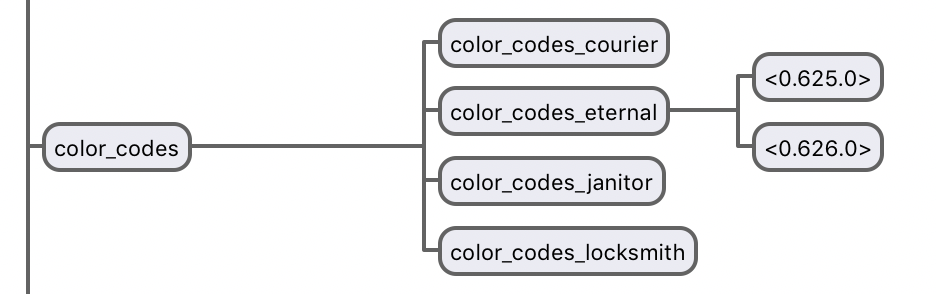
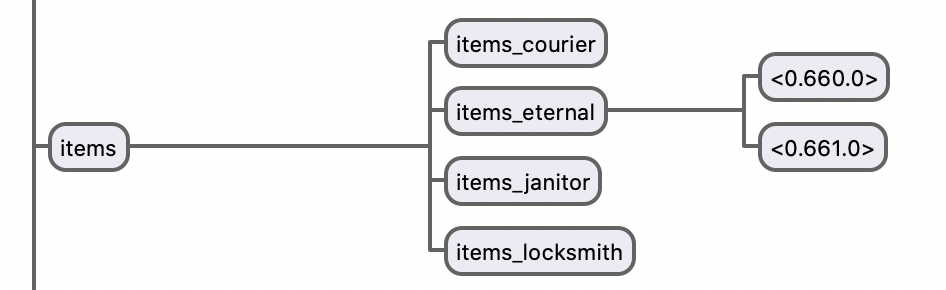
Update supervision tree and add elixir wizards image

Changed region(s): [[0.0, 0.0, 0.9605, 1.0]]

diff --git a/state-train/presentation.md b/state-train/presentation.md
@@ -8,6 +8,15 @@
 Eric Oestrich
 SmartLogic
 
+^ Before presenting, make sure:
+^ - ExVenture, Spigot, and Grapevine online
+^ - ExVenture connected to grapevine, user has chat enabled
+^ - Spigot OAuth works
+^ Load these:
+^ - https://grapevine.haus/games
+^ - https://grapevine.haus/games/online
+^ - https://grapevine.haus/games/ChatMUD/stats
+
 ---
 [.header: #37A792, alignment(left), Circular Std]
 
@@ -103,7 +112,7 @@ Based in Baltimore, we've built over 150 apps since 2005.
 
 ![original](plain-slide.png)
 
-# Supervision Tree
+# Supervision Trees & Processes
 
 ![inline](supervision-tree.png)
 
@@ -236,7 +245,7 @@ The flagship ExVenture instance
 # Not Really
 
 - Poll based?
-- Background worker that updated the world every X seconds?
+- Worker that updated the world?
 - Gross
 
 ---
@@ -248,8 +257,6 @@ The flagship ExVenture instance
 ![inline](grapevine.png)
 
 ^ Stateless |---------*----------| Stateful
-
-^ TODO graphic of stateless to stateful, grapevine in the middle
 
 ---
 
@@ -347,7 +354,7 @@ MUD community site
 
 # Soft realtime capabilities
 
-## Erlang is built for soft realtime
+### Erlang is built for soft realtime
 
 ---
 
@@ -355,7 +362,7 @@ MUD community site
 
 # Website feels "alive"
 
-## Websockets can update your website without a refresh
+### Websockets can update your website without a refresh
 
 ^ Great example: live view
 
@@ -365,7 +372,7 @@ MUD community site
 
 # Reduced Database Queries
 
-## Less round trips to the database for faster response times
+### Less round trips to the database for faster response times
 
 ---
 
@@ -379,7 +386,7 @@ MUD community site
 
 # Requires heavy usage of OTP
 
-## You must architect out how your application is laid out in memory
+### You must architect out how your application is laid out in memory
 
 ^ Not using the one given to you from Phoenix
 
@@ -389,7 +396,7 @@ MUD community site
 
 # Caches are Hard™
 
-## There are 2 hard problems in computer science: cache invalidation, naming things, and off-by-1 errors.
+### There are 2 hard problems in computer science: cache invalidation, naming things, and off-by-1 errors.
 
 ---
 
@@ -475,8 +482,6 @@ Watch over your GenServers
 ![original](section-div.png)
 
 # Put It All Together
-
-^ TODO Lots of diagrams
 
 ---
 
@@ -617,14 +622,25 @@ Watch over your GenServers
 [.text: alignment(center)]
 
 # Season 3 of ~~Smart Software~~
-# Elixir Wizards
 
 [podcast.smartlogic.io](https://podcast.smartlogic.io)
 
 ---
 
+![original](plain-slide.png)
+
+[.text: alignment(center)]
+
+# Season 3 of Elixir Wizards
+
+[podcast.smartlogic.io](https://podcast.smartlogic.io)
+
+![inline](elixir-wizards.png)
+
+---
+
 [.header: #FDDF26, text-scale(1.5), Circular Std]
 
-![original](closer-slide.png)
+![original](title-slide.png)
 
 # Thanks!
